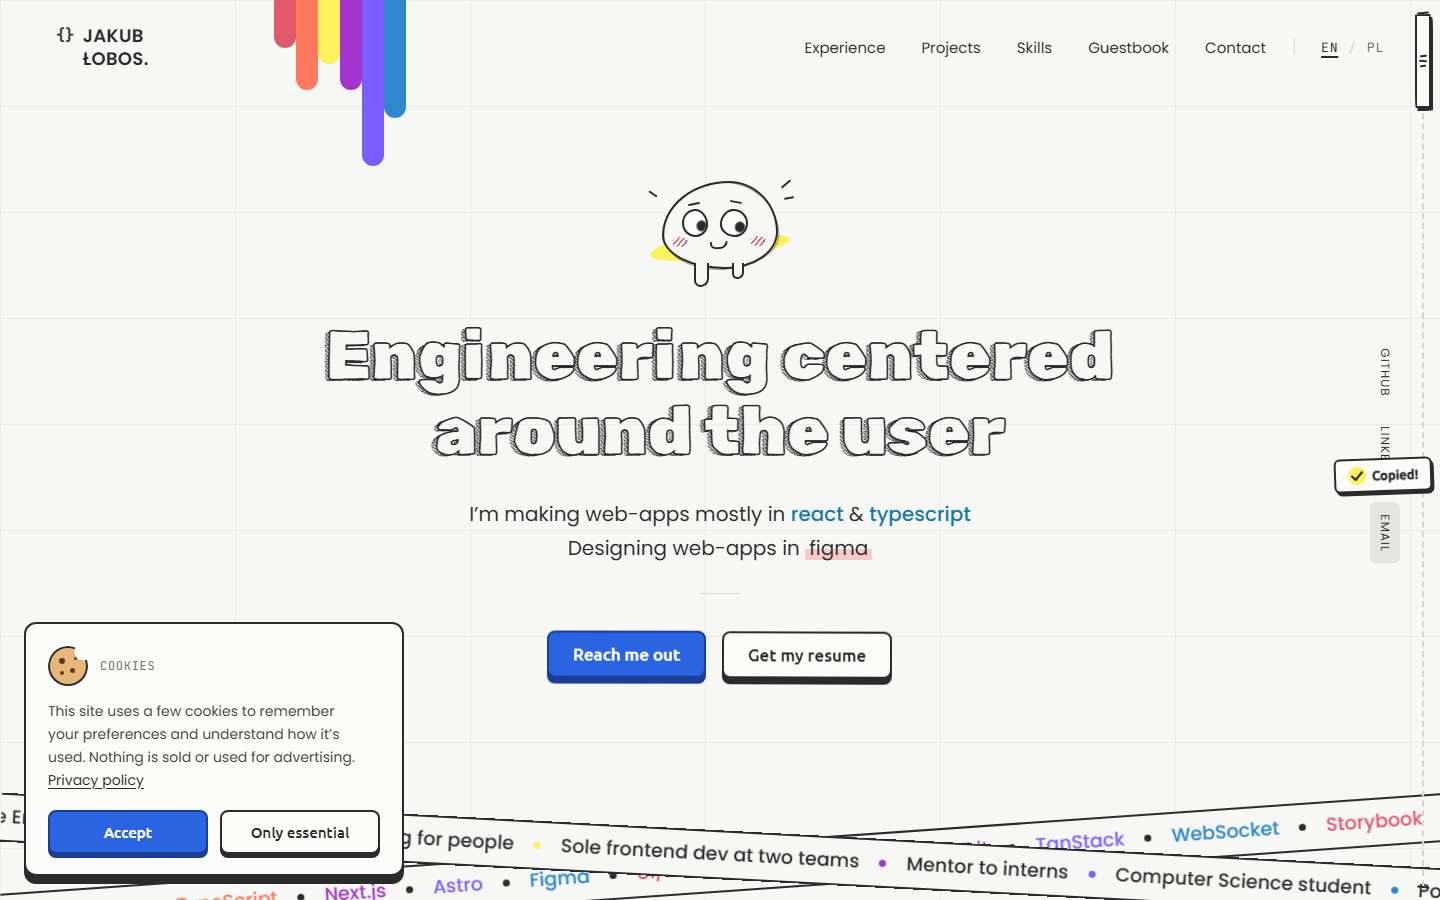
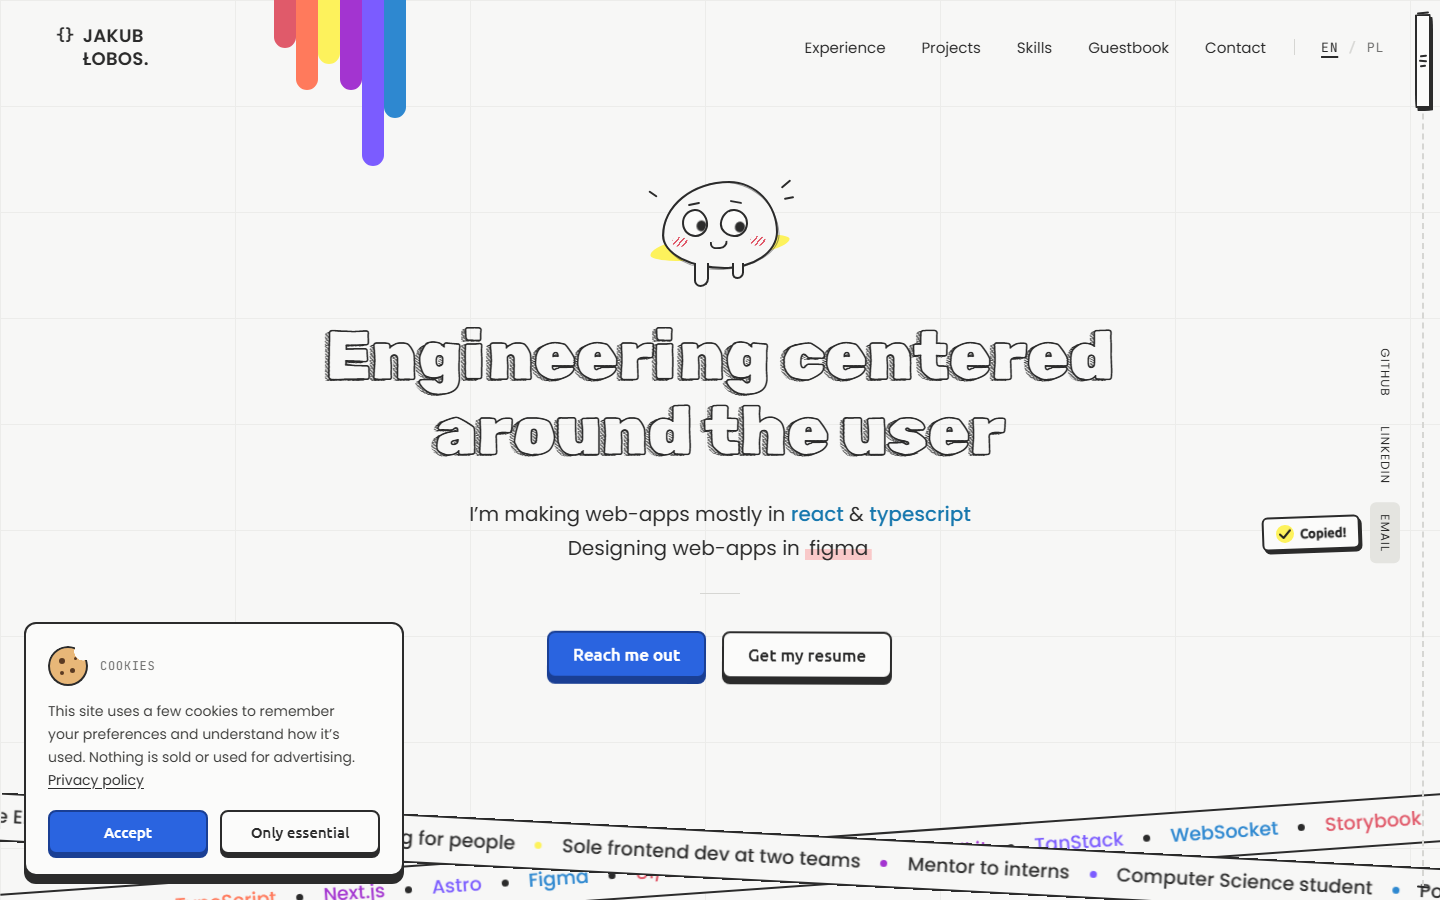
fix(web): place the copy tag beside vertical links [T-081]

diff --git a/apps/web/src/lib/copy-tag-position.ts b/apps/web/src/lib/copy-tag-position.ts
@@ -12,7 +12,7 @@ export interface TagPlacement {
   left: number;
   top: number;
   /** Which side of the anchor the tag landed on. */
-  side: 'above' | 'below';
+  side: 'above' | 'below' | 'left';
 }
 
 const GAP = 10;
@@ -30,13 +30,23 @@ export function placeCopyTag(
   tag: Pick<Box, 'width' | 'height'>,
   viewport: Pick<Box, 'width' | 'height'>,
 ): TagPlacement {
+  const maxLeft = Math.max(EDGE, viewport.width - tag.width - EDGE);
+  const maxTop = Math.max(EDGE, viewport.height - tag.height - EDGE);
+  // A vertical link (the social aside) would be covered by a tag centred above it.
+  if (anchor.height > anchor.width) {
+    return {
+      left: clamp(anchor.left - GAP - tag.width, EDGE, maxLeft),
+      top: clamp(anchor.top + anchor.height / 2 - tag.height / 2, EDGE, maxTop),
+      side: 'left',
+    };
+  }
   const above = anchor.top - GAP - tag.height;
   const side = above >= EDGE ? 'above' : 'below';
   const top = side === 'above' ? above : anchor.top + anchor.height + GAP;
   const centred = anchor.left + anchor.width / 2 - tag.width / 2;
   return {
-    left: clamp(centred, EDGE, Math.max(EDGE, viewport.width - tag.width - EDGE)),
-    top: clamp(top, EDGE, Math.max(EDGE, viewport.height - tag.height - EDGE)),
+    left: clamp(centred, EDGE, maxLeft),
+    top: clamp(top, EDGE, maxTop),
     side,
   };
 }

diff --git a/apps/web/src/lib/copy-tag-position.test.ts b/apps/web/src/lib/copy-tag-position.test.ts
@@ -15,9 +15,14 @@ describe('placeCopyTag', () => {
     expect(placeCopyTag(anchor, tag, viewport)).toEqual({ left: 350, top: 50, side: 'below' });
   });
 
-  it('keeps the tag inside the viewport at the right edge', () => {
-    const anchor = { left: 790, top: 300, width: 10, height: 100 };
-    expect(placeCopyTag(anchor, tag, viewport).left).toBe(692);
+  it('places the tag left of a vertical link, centred on it', () => {
+    const anchor = { left: 760, top: 300, width: 20, height: 100 };
+    expect(placeCopyTag(anchor, tag, viewport)).toEqual({ left: 650, top: 335, side: 'left' });
+  });
+
+  it('keeps a left-placed tag inside the viewport', () => {
+    const anchor = { left: 50, top: 300, width: 20, height: 100 };
+    expect(placeCopyTag(anchor, tag, viewport).left).toBe(8);
   });
 
   it('keeps the tag inside the viewport at the left edge', () => {
